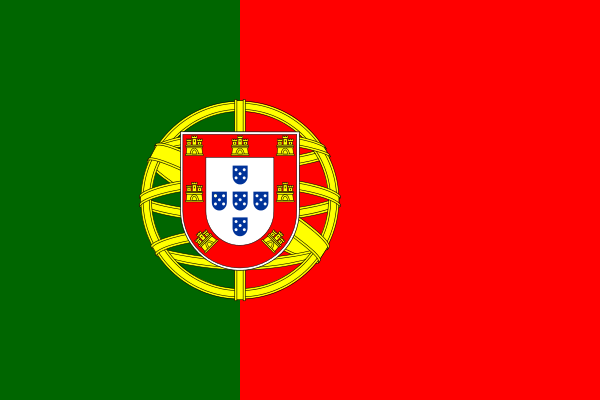
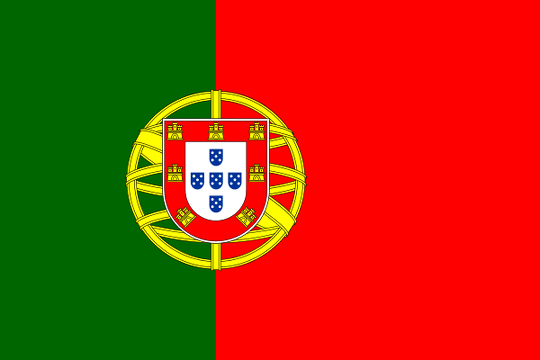
Resized all flags to be the same size.

diff --git a/ckanext/tess/templates/nodes/index.html b/ckanext/tess/templates/nodes/index.html
@@ -36,6 +36,8 @@ you risk reversing the Entropy of the Universe and destroying us all. You've bee
     </div>
 </div>
 <hr>
+
+{# Country flags obtained from https://github.com/googlei18n/region-flags/tree/master/png #}
 {% set nodes = [
 {'name' : 'Belgium', 'country_code' : 'BE', 'hon' : 'Head of node', 'trc': 'Training co-ord', 'tc' : 'Tech co-ord'},
 {'name' : 'Czech Republic', 'country_code' : 'CR', 'hon' : 'Head of node', 'trc': 'Training co-ord', 'tc' : 'Tech co-ord'},
@@ -60,7 +62,7 @@ you risk reversing the Entropy of the Universe and destroying us all. You've bee
 {% for index in range(0,nodes|length,3): %}
 <div class="row-fluid">
     <div class="span11 offset1">
-        {% snippet "nodes/snippets/flag.html",
+        {% snippet "nodes/snippets/node_info.html",
         name = nodes[index].name,
         flag = "/images/node_flags/" ~ nodes[index].country_code ~ ".png",
         page = "/nodes/" ~ nodes[index].country_code ~ ".html",
@@ -68,7 +70,7 @@ you risk reversing the Entropy of the Universe and destroying us all. You've bee
         trc = nodes[index].trc,
         tc = nodes[index].tc %}
         {% if index + 1 < nodes|length: %}
-        {% snippet "nodes/snippets/flag.html",
+        {% snippet "nodes/snippets/node_info.html",
         name = nodes[index+1].name,
         flag = "/images/node_flags/" ~ nodes[index+1].country_code ~ ".png",
         page = "/nodes/" ~ nodes[index+1].country_code ~ ".html",
@@ -77,7 +79,7 @@ you risk reversing the Entropy of the Universe and destroying us all. You've bee
         tc = nodes[index+1].tc %}
         {% endif %}
         {% if index + 2 < nodes|length: %}
-        {% snippet "nodes/snippets/flag.html", name=nodes[index+2].name,
+        {% snippet "nodes/snippets/node_info.html", name=nodes[index+2].name,
         name = nodes[index+2].name,
         flag = "/images/node_flags/" ~ nodes[index+2].country_code ~ ".png",
         page = "/nodes/" ~ nodes[index+2].country_code ~ ".html",
